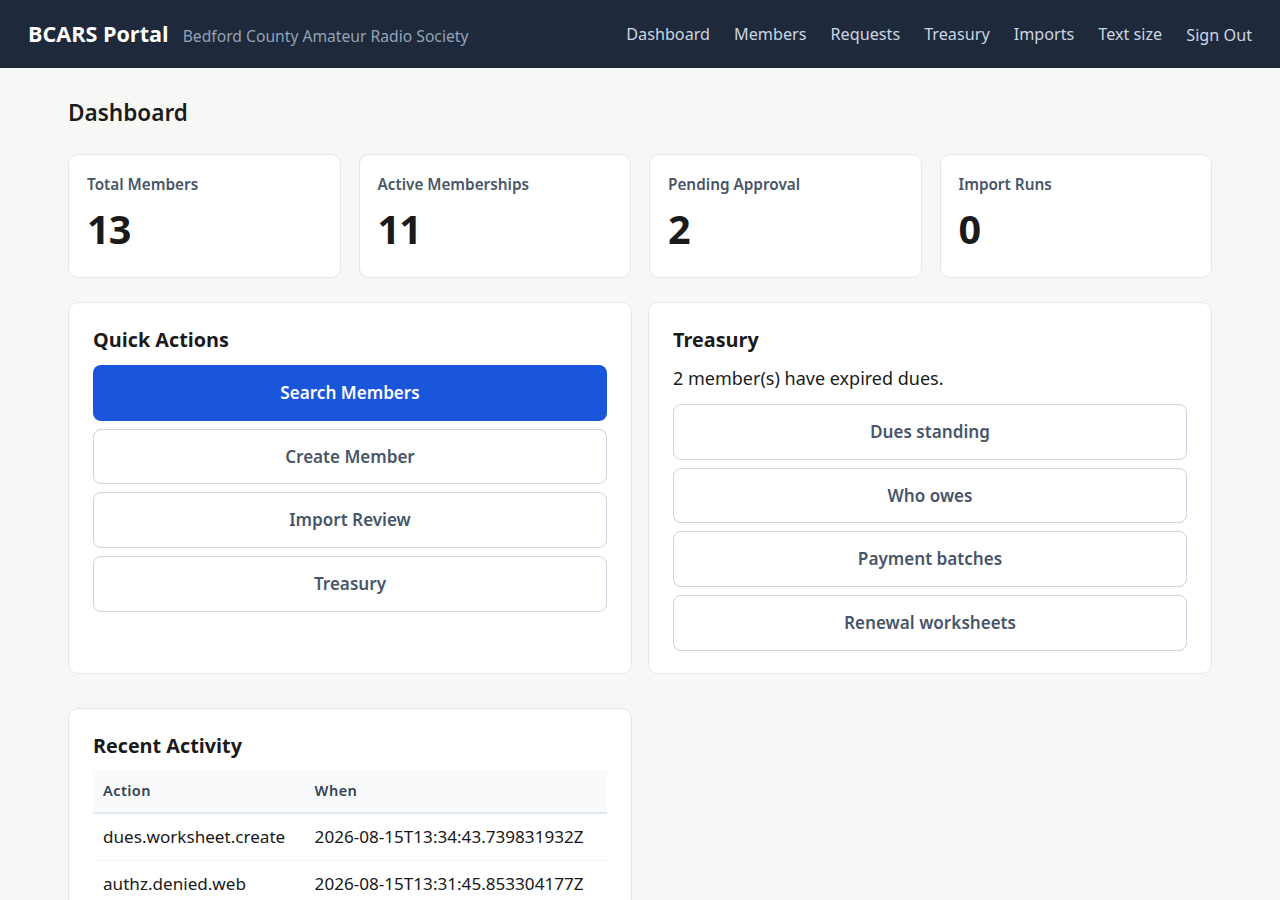
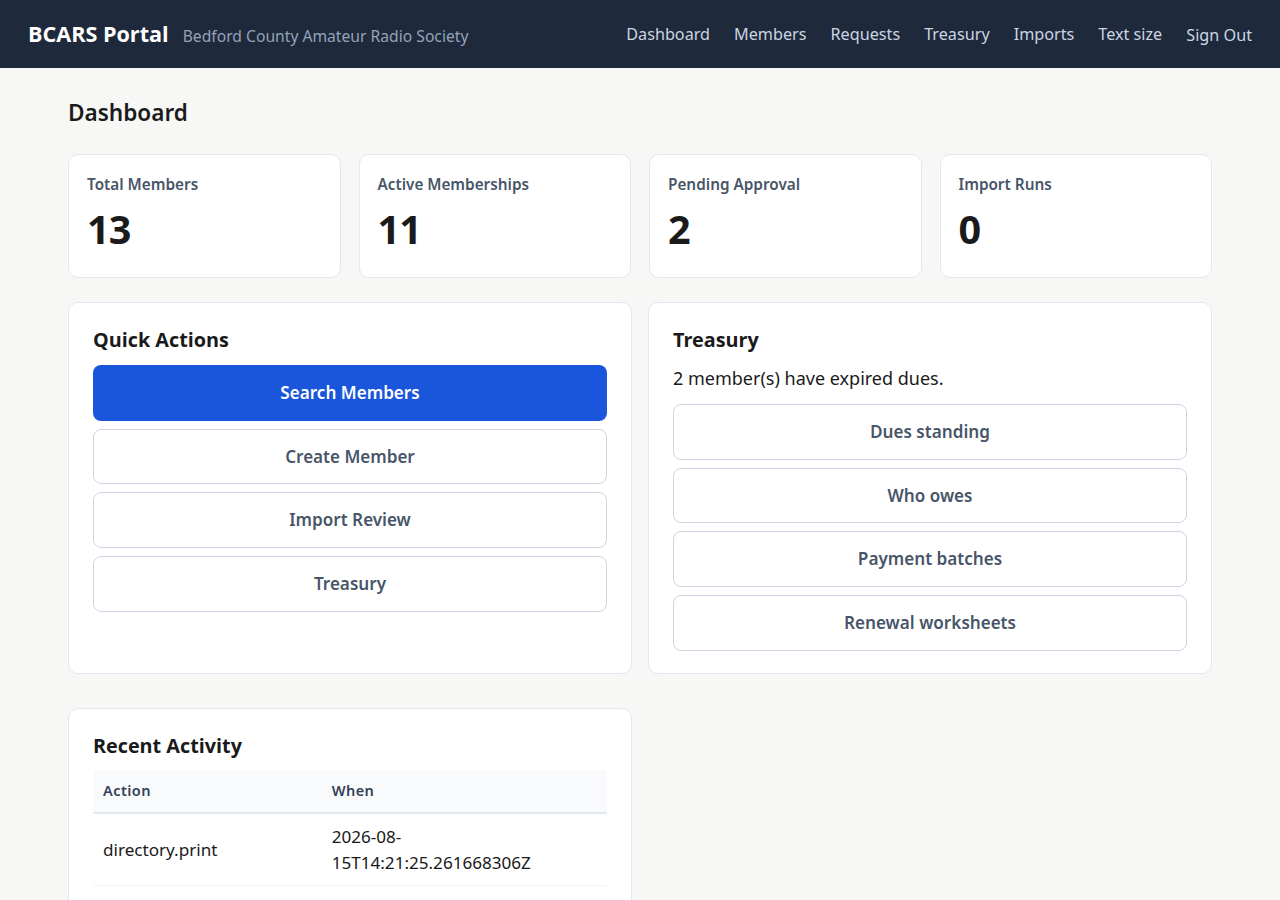
fix(web): a not-found page that fits the caller, on every 404 route (i4a) (#107)
/admin/nonexistent returned 200 and rendered the officer dashboard: "GET
/admin/" is a net/http prefix pattern, so every unclaimed path beneath it
reached the dashboard handler. A mistyped or renamed route therefore
looked like it worked, and any script navigating to a wrong path quietly
got a real page. /member/ had the same shape and the same result.

Two more problems were in the same area:

error.html embedded the OFFICER layout for every caller, so a signed-out
visitor who mistyped a URL was shown a header advertising Members,
Treasury and Imports, a Sign Out button for an application they were not
signed in to, and a Dashboard link a member is redirected away from and
an anonymous caller cannot use. The error body is now defined once and
worn by three pages — officer chrome, member chrome, and no chrome at all
for the signed out — with the way out resolved from the caller rather
than fixed in the template.

The catch-all added with the front door yesterday (8yj) also answered
unmatched /api/ paths with HTML, even when the client asked for JSON. An
API client cannot tell a missing endpoint from a broken deployment when
the body is a web page, so those now get the same RFC 7807 problem
document every other API error returns. That was a regression I
introduced; it is fixed rather than left because the previous plaintext
404 was at least not pretending to be a page.

Every guarantee was checked against a mutation: removing the /admin/
[…]

Changed region(s): [[0.25, 0.8711, 0.4688, 0.9956], [0.0625, 0.9022, 0.2188, 0.9956]]

diff --git a/internal/web/templates/tokens.html b/internal/web/templates/tokens.html
@@ -252,7 +252,44 @@
     .breadcrumb a { color: var(--text-secondary); }
     .breadcrumb span { margin: 0 var(--space-1); }
 
+    /* Error pages. Centred, quiet, and readable at either text size. */
+    .error-page { max-width: 34rem; margin: var(--space-7) auto; text-align: center; }
+    .error-page .error-code { font-size: 3rem; font-weight: 700; color: var(--text-muted); margin: 0 0 var(--space-2); line-height: 1; }
+    .error-page h1 { margin: 0 0 var(--space-3); font-size: 1.25rem; font-weight: 600; }
+    .error-page .error-message { color: var(--text-helper); margin: 0 0 var(--space-5); }
+    .error-page .error-request-id { font-size: .75em; color: var(--text-muted); margin: 0 0 var(--space-5); }
+    .error-page .error-actions { margin: 0; }
+
     .flash { animation: flash-fade 0.3s ease-in; }
     @keyframes flash-fade { from { background: var(--badge-warning-bg); } to { background: transparent; } }
 </style>
+{{end}}
+
+{{/*
+    The body of every error page, defined once.
+
+    Three pages embed it because an error has to be dressed in the chrome of
+    whoever hit it: the officer error page carries the officer navigation, the
+    member one carries the member navigation, and the public one carries none.
+    Before this, every error rendered the officer layout — so a signed-out
+    visitor who mistyped a URL was shown an officer header advertising Members,
+    Treasury and Imports, with a Sign Out button and a Dashboard link they
+    could not use (bcars-portal-i4a).
+
+    The caller-appropriate destination arrives as .ActionHref/.ActionLabel
+    rather than being decided here, because the template cannot see the
+    principal and a guess would be exactly the wrong link again.
+*/}}
+{{define "error_body"}}
+<div class="error-page">
+    <p class="error-code">{{.Code}}</p>
+    <h1>{{.Title}}</h1>
+    <p class="error-message">{{.Message}}</p>
+    {{if .RequestID}}
+    <p class="error-request-id">Request ID: {{.RequestID}}</p>
+    {{end}}
+    <p class="error-actions">
+        <a href="{{.ActionHref}}" class="btn btn-primary">{{.ActionLabel}}</a>
+    </p>
+</div>
 {{end}}

diff --git a/internal/web/templates/error_public.html b/internal/web/templates/error_public.html
@@ -1,0 +1,27 @@
+<!DOCTYPE html>
+<html lang="en">
+<head>
+    <meta charset="UTF-8">
+    <meta name="viewport" content="width=device-width, initial-scale=1.0">
+    <title>{{.Title}} - BCARS Portal</title>
+    {{template "tokens" .}}
+    <style>
+        /* Centred like the sign-in card: with no navigation on the page, an
+           error pinned to the top edge reads as a broken render rather than a
+           deliberate screen. */
+        body { display: flex; justify-content: center; align-items: center; min-height: 100vh; padding: var(--space-5); }
+        .error-page { margin: 0 auto; }
+    </style>
+</head>
+<body>
+    {{/*
+        Standalone on purpose: a caller who is not signed in gets no navigation,
+        because every link in the officer and member headers leads somewhere
+        they would only be refused. This page is its own document for the same
+        reason the sign-in and recovery pages are.
+    */}}
+    <main id="main" class="container">
+        {{template "error_body" .}}
+    </main>
+</body>
+</html>

diff --git a/internal/web/templates/error_member.html b/internal/web/templates/error_member.html
@@ -1,4 +1,4 @@
-{{template "layout.html" .}}
+{{template "member_layout.html" .}}
 
 {{define "title"}}{{.Title}} - BCARS Portal{{end}}
 

diff --git a/internal/web/reachability_test.go b/internal/web/reachability_test.go
@@ -1,6 +1,7 @@
 package web
 
 import (
+	"encoding/json"
 	"io/fs"
 	"net/http"
 	"net/http/httptest"
@@ -298,4 +299,148 @@ func TestTheRootPathIsAFrontDoor(t *testing.T) {
 				"%s must be a not-found, not a redirect", path)
 		}
 	})
+}
+
+// The not-found page is the one screen every wrong URL reaches, so it is the
+// screen most likely to be seen by someone who is lost — including someone not
+// signed in. These tests pin what it says and, more importantly, what chrome it
+// wears (bcars-portal-i4a).
+
+func TestUnknownPathsUnderAPrefixAreNotFound(t *testing.T) {
+	officer := setupHandlerWithRoles(t, "administrator")
+
+	// "GET /admin/" and "GET /member/" are net/http prefix patterns: without an
+	// explicit check they answer for everything beneath them, so a mistyped
+	// path renders a real page with a 200 and looks like it worked.
+	for _, path := range []string{
+		"/admin/nonexistent",
+		"/admin/nope/deeper",
+		"/admin/treasury-typo",
+		"/member/nonexistent",
+		"/member/records-typo",
+	} {
+		w := httptest.NewRecorder()
+		officer.mux.ServeHTTP(w, officer.authedRequest("GET", path))
+		assert.Equalf(t, http.StatusNotFound, w.Code,
+			"%s renders a page instead of reporting that it does not exist", path)
+		assert.NotContainsf(t, w.Body.String(), "Active Memberships",
+			"%s served the dashboard's content under its status", path)
+	}
+
+	// A path with dot segments is cleaned and redirected by net/http before any
+	// handler sees it; following that redirect is what reaches the check above.
+	// Asserted here so the 307 is understood as ServeMux behaviour rather than
+	// mistaken for a route answering.
+	w0 := httptest.NewRecorder()
+	officer.mux.ServeHTTP(w0, officer.authedRequest("GET", "/admin/members/../nope"))
+	assert.Equal(t, http.StatusTemporaryRedirect, w0.Code)
+	assert.Equal(t, "/admin/nope", w0.Header().Get("Location"))
+
+	// The prefixes themselves still work.
+	w := httptest.NewRecorder()
+	officer.mux.ServeHTTP(w, officer.authedRequest("GET", "/admin/"))
+	assert.Equal(t, http.StatusOK, w.Code, "the dashboard itself must still render")
+
+	member := setupDirectoryEligibleMember(t)
+	w = member.getAs(t, RouteMemberHome, member.testEnv.cookie)
+	assert.Equal(t, http.StatusOK, w.Code, "the member landing itself must still render")
+}
+
+// TestAMemberReachingTheOfficerDashboardIsStillRedirected guards the behaviour
+// the not-found check sits in front of: the redirect is chosen before the path
+// check would matter, and a member must not receive a 404 for /admin/ when what
+// they should get is their own landing.
+func TestAMemberReachingTheOfficerDashboardIsStillRedirected(t *testing.T) {
+	e := setupDirectoryEligibleMember(t)
+
+	w := e.getAs(t, "/admin/", e.testEnv.cookie)
+
+	require.Equal(t, http.StatusSeeOther, w.Code, "a member must be redirected, not refused")
+	assert.Equal(t, RouteMemberHome, w.Header().Get("Location"))
+}
+
+func TestTheNotFoundPageWearsTheCallersChrome(t *testing.T) {
+	t.Run("a signed-out visitor gets no navigation at all", func(t *testing.T) {
+		e := setupHandler(t)
+
+		w := httptest.NewRecorder()
+		e.mux.ServeHTTP(w, httptest.NewRequest("GET", "/nope", nil))
+		require.Equal(t, http.StatusNotFound, w.Code)
+
+		body := w.Body.String()
+		// The officer header advertises screens this caller is not signed in
+		// to, and offers a Sign Out button to someone who is not signed in.
+		for _, leaked := range []string{
+			`href="/admin/members"`, `href="/admin/treasury"`, `href="/admin/imports"`, "Sign Out",
+		} {
+			assert.NotContainsf(t, body, leaked,
+				"the public not-found page shows %q from the officer navigation", leaked)
+		}
+		assert.Contains(t, body, `href="`+RouteLogin+`"`,
+			"the only way out offered to a signed-out visitor must be the sign-in page")
+	})
+
+	t.Run("an officer keeps the officer navigation", func(t *testing.T) {
+		e := setupHandlerWithRoles(t, "administrator")
+
+		w := httptest.NewRecorder()
+		e.mux.ServeHTTP(w, e.authedRequest("GET", "/nope"))
+		require.Equal(t, http.StatusNotFound, w.Code)
+
+		body := w.Body.String()
+		assert.Contains(t, body, `href="/admin/members"`, "an officer should still be able to navigate")
+		assert.Contains(t, body, `href="/admin/"`)
+	})
+
+	t.Run("a member gets the member navigation and their own landing", func(t *testing.T) {
+		e := setupDirectoryEligibleMember(t)
+
+		w := e.getAs(t, "/nope", e.testEnv.cookie)
+		require.Equal(t, http.StatusNotFound, w.Code)
+
+		body := w.Body.String()
+		assert.NotContains(t, body, `href="/admin/members"`,
+			"a member must not be shown officer navigation on an error page")
+		assert.Contains(t, body, `href="`+RouteMemberHome+`"`,
+			"the way out offered to a member must be their own landing")
+	})
+}
+
+// TestAnUnknownAPIPathAnswersAsAnAPI covers a regression introduced with the
+// front door: the catch-all that gave browsers a real page also began handing
+// HTML to API clients, which cannot tell a missing endpoint from a broken
+// deployment when the body is a web page.
+func TestAnUnknownAPIPathAnswersAsAnAPI(t *testing.T) {
+	e := setupHandler(t)
+
+	for _, tc := range []struct{ name, path, accept string }{
+		{"an api path", "/api/v1/nope", ""},
+		{"a json client", "/nope", "application/json"},
+	} {
+		t.Run(tc.name, func(t *testing.T) {
+			req := httptest.NewRequest("GET", tc.path, nil)
+			if tc.accept != "" {
+				req.Header.Set("Accept", tc.accept)
+			}
+			w := httptest.NewRecorder()
+			e.mux.ServeHTTP(w, req)
+
+			require.Equal(t, http.StatusNotFound, w.Code)
+			assert.Equal(t, "application/problem+json", w.Header().Get("Content-Type"))
+			assert.NotContains(t, w.Body.String(), "<!DOCTYPE html>",
+				"an API client received a web page")
+
+			var problem map[string]any
+			require.NoError(t, json.Unmarshal(w.Body.Bytes(), &problem),
+				"the body must be a problem document")
+			assert.Equal(t, float64(http.StatusNotFound), problem["status"])
+		})
+	}
+
+	// A browser asking for HTML still gets the page.
+	req := httptest.NewRequest("GET", "/nope", nil)
+	req.Header.Set("Accept", "text/html,application/xhtml+xml")
+	w := httptest.NewRecorder()
+	e.mux.ServeHTTP(w, req)
+	assert.Contains(t, w.Body.String(), "<!DOCTYPE html>", "a browser must still get the page")
 }

diff --git a/internal/web/handler.go b/internal/web/handler.go
@@ -652,7 +652,7 @@ func (h *Handler) root(w http.ResponseWriter, r *http.Request) {
 	// here is genuinely not found, and redirecting it would turn every typo and
 	// stale link into a silent bounce to the dashboard.
 	if r.URL.Path != "/" {
-		h.renderError(w, r, http.StatusNotFound, "That page does not exist.")
+		h.notFound(w, r)
 		return
 	}
 
@@ -662,6 +662,39 @@ func (h *Handler) root(w http.ResponseWriter, r *http.Request) {
 		return
 	}
 	http.Redirect(w, r, landingFor(p), http.StatusSeeOther)
+}
+
+// notFound answers a path nothing serves, in the shape the caller asked for.
+//
+// The catch-all this sits behind receives unmatched API paths too, and an API
+// client that gets an HTML page back cannot tell a missing endpoint from a
+// broken deployment. Real API errors are RFC 7807 problem documents, so an
+// unmatched one is too. This was worse than the plaintext 404 it replaced
+// until it was noticed (introduced with the front door in bcars-portal-8yj).
+func (h *Handler) notFound(w http.ResponseWriter, r *http.Request) {
+	if wantsProblemJSON(r) {
+		w.Header().Set("Content-Type", "application/problem+json")
+		w.WriteHeader(http.StatusNotFound)
+		_ = json.NewEncoder(w).Encode(map[string]any{
+			"type":   "about:blank",
+			"title":  "Not Found",
+			"status": http.StatusNotFound,
+			"detail": "No endpoint is served at " + r.URL.Path + ".",
+		})
+		return
+	}
+	h.renderError(w, r, http.StatusNotFound, "That page does not exist.")
+}
+
+// wantsProblemJSON reports whether the caller is an API client rather than a
+// browser: either it asked below the API prefix, or it said it wants JSON and
+// did not ask for HTML.
+func wantsProblemJSON(r *http.Request) bool {
+	if strings.HasPrefix(r.URL.Path, "/api/") {
+		return true
+	}
+	accept := r.Header.Get("Accept")
+	return strings.Contains(accept, "json") && !strings.Contains(accept, "text/html")
 }
 
 func landingFor(p *authz.Principal) string {
@@ -677,6 +710,17 @@ func landingFor(p *authz.Principal) string {
 func (h *Handler) dashboard(w http.ResponseWriter, r *http.Request) {
 	ctx := r.Context()
 	p := h.principalFromRequest(r)
+
+	// "GET /admin/" is a net/http prefix pattern, so every unclaimed path under
+	// it arrives here. Without this check /admin/nonexistent rendered the
+	// dashboard with a 200, which made a mistyped or renamed route look like it
+	// worked and quietly handed a real page to any script that navigated to a
+	// wrong path (bcars-portal-i4a).
+	if r.URL.Path != "/admin/" {
+		h.renderError(w, r, http.StatusNotFound, "That page does not exist.")
+		return
+	}
+
 	data := dashboardData{Nav: navFor(p)}
 
 	// A member who can reach no officer surface is sent to their own landing
@@ -1498,6 +1542,30 @@ type errorPageData struct {
 	Title     string
 	Message   string
 	RequestID string
+	// ActionHref and ActionLabel are the one way out this page offers. They are
+	// resolved from the caller rather than fixed in the template, which used to
+	// send everyone to /admin — a link a member is redirected away from and a
+	// signed-out visitor cannot use at all.
+	ActionHref  string
+	ActionLabel string
+}
+
+// errorChrome picks the error page whose navigation suits the caller, and the
+// destination its one button should offer.
+//
+// An error page dressed in the wrong chrome is its own small disclosure and a
+// larger confusion: before this, a signed-out visitor who mistyped a URL was
+// shown the officer header — Members, Treasury, Imports and a Sign Out button —
+// for an application they were not signed in to (bcars-portal-i4a).
+func errorChrome(p *authz.Principal) (template, href, label string) {
+	switch {
+	case p == nil:
+		return "error_public.html", RouteLogin, "Go to sign in"
+	case navFor(p).AnyOfficer():
+		return "error.html", "/admin/", "Go to the dashboard"
+	default:
+		return "error_member.html", RouteMemberHome, "Go to your records"
+	}
 }
 
 // renderError renders a user-friendly error page.
@@ -1527,12 +1595,15 @@ func (h *Handler) renderError(w http.ResponseWriter, r *http.Request, code int, 
 		return
 	}
 
+	page, href, label := errorChrome(h.principalFromRequest(r))
 	data := errorPageData{
-		Code:    code,
-		Title:   title,
-		Message: message,
+		Code:        code,
+		Title:       title,
+		Message:     message,
+		ActionHref:  href,
+		ActionLabel: label,
 	}
-	h.renderPage(w, r, "error.html", code, data)
+	h.renderPage(w, r, page, code, data)
 }
 
 // renderDomainError maps common domain errors to appropriate HTTP responses.

diff --git a/internal/web/member.go b/internal/web/member.go
@@ -223,6 +223,14 @@ type memberRecordRow struct {
 // URL, or a matching contact address, so revoking a grant removes the record
 // from the very next page load of a session that is already open (ADR-0010).
 func (h *Handler) memberHome(w http.ResponseWriter, r *http.Request) {
+	// RouteMemberHome is a prefix pattern, so an unclaimed path under /member/
+	// lands here. Rendering the member landing for it would report a wrong URL
+	// as a working page, the same way /admin/ did (bcars-portal-i4a).
+	if r.URL.Path != RouteMemberHome {
+		h.renderError(w, r, http.StatusNotFound, "That page does not exist.")
+		return
+	}
+
 	ctx := r.Context()
 	p := h.principalFromRequest(r)
 

diff --git a/docs/screenshots/README.md b/docs/screenshots/README.md
@@ -71,6 +71,12 @@ another's screens.
 | 15 | Directory print view | [`15-member-directory-print.png`](15-member-directory-print.png) |
 | 16 | Text size preference | [`16-member-text-size.png`](16-member-text-size.png) |
 
+### Signed out
+
+| | Screen | File |
+|---|---|---|
+| 17 | Not found, as a signed-out visitor sees it — no navigation, one way back | [`17-public-not-found.png`](17-public-not-found.png) |
+
 These show the functional MVP layouts. Visual design and polish are the subject
 of the `6pz` design beads, so treat them as evidence of what each screen *does*
 rather than of how it should finally look.
